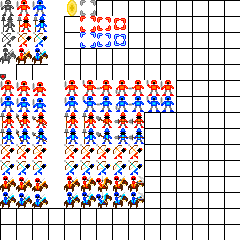
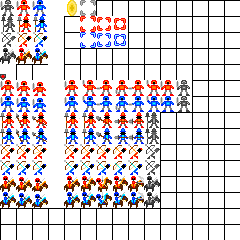
Added attack animations

Changed region(s): [[0.5833, 0.4667, 0.6708, 0.875], [0.7292, 0.3208, 0.7875, 0.4667], [0.0, 0.2042, 0.0583, 0.2625]]

diff --git a/Senior Project/src/wzh/game/entity/unit/Horseman.java b/Senior Project/src/wzh/game/entity/unit/Horseman.java
@@ -20,13 +20,15 @@ public class Horseman extends Unit {
 				colored = ss.getSubImage(2, 3);
 				standingAnimation=new Animation(ss,0,12,2,12,true,500,true);
 				standingAnimation.setPingPong(true);
-				attackAnimation=new Animation(ss,5,12,8,12,true,200,true);
+				attackAnimation=new Animation(ss,5,12,9,12,true,100,true);
+				attackAnimation.setLooping(false);
 			}
 			else{
 				colored = ss.getSubImage(1, 3);
 				standingAnimation=new Animation(ss,0,11,2,11,true,500,true);
 				standingAnimation.setPingPong(true);
-				attackAnimation=new Animation(ss,5,11,8,11,true,200,true);
+				attackAnimation=new Animation(ss,5,11,9,11,true,100,true);
+				attackAnimation.setLooping(false);
 			}
 			sprite = colored;
 			gray = ss.getSubImage(0, 3);
@@ -47,6 +49,7 @@ public class Horseman extends Unit {
 			super.attack(other);
 		}
 		else if(other instanceof Archer){
+			attacking=true;
 			allyAttModifier = 2;
 			other.setHp((int)(other.getHp() - getAttack()*allyAttModifier*(double)((10-other.getDefense()))/10));
 		}

diff --git a/Senior Project/src/wzh/game/entity/unit/Swordsman.java b/Senior Project/src/wzh/game/entity/unit/Swordsman.java
@@ -19,13 +19,15 @@ public class Swordsman extends Unit{
 				colored = ss.getSubImage(2, 0);
 				standingAnimation=new Animation(ss,0,6,2,6,true,500,true);
 				standingAnimation.setPingPong(true);
-				attackAnimation=new Animation(ss,5,6,10,6,true,200,true);
+				attackAnimation=new Animation(ss,5,6,11,6,true,100,true);
+				attackAnimation.setLooping(false);
 			}
 			else{
 				colored = ss.getSubImage(1, 0);
 				standingAnimation=new Animation(ss,0,5,2,5,true,500,true);
 				standingAnimation.setPingPong(true);
-				attackAnimation=new Animation(ss,5,5,10,5,true,200,true);
+				attackAnimation=new Animation(ss,5,5,11,5,true,100,true);
+				attackAnimation.setLooping(false);
 			}
 			sprite = colored;
 			gray = ss.getSubImage(0,0);
@@ -48,6 +50,7 @@ public class Swordsman extends Unit{
 			super.attack(other);
 		}
 		else if(other instanceof Archer){
+			attacking=true;
 			allyAttModifier = 1.5;
 			other.setHp((int)(other.getHp() - getAttack()*allyAttModifier*(double)((10-other.getDefense()))/10));
 		}

diff --git a/Senior Project/src/wzh/game/entity/unit/Spearman.java b/Senior Project/src/wzh/game/entity/unit/Spearman.java
@@ -19,13 +19,15 @@ public class Spearman extends Unit {
 				colored = ss.getSubImage(2, 1);
 				standingAnimation=new Animation(ss,0,8,2,8,true,500,true);
 				standingAnimation.setPingPong(true);
-				attackAnimation=new Animation(ss,5,8,8,8,true,200,true);
+				attackAnimation=new Animation(ss,5,8,9,8,true,150,true);
+				attackAnimation.setLooping(false);
 			}
 			else{
 				colored = ss.getSubImage(1, 1);
 				standingAnimation=new Animation(ss,0,7,2,7,true,500,true);
 				standingAnimation.setPingPong(true);
-				attackAnimation=new Animation(ss,5,7,8,7,true,200,true);
+				attackAnimation=new Animation(ss,5,7,9,7,true,150,true);
+				attackAnimation.setLooping(false);
 			}
 			sprite = colored;
 			gray = ss.getSubImage(0, 1);
@@ -46,6 +48,7 @@ public class Spearman extends Unit {
 			super.attack(other);
 		}
 		else if(other instanceof Archer){
+			attacking=true;
 			allyAttModifier = 1.25;
 			other.setHp((int)(other.getHp() - getAttack()*allyAttModifier*(double)((10-other.getDefense()))/10));
 		}

diff --git a/Senior Project/src/wzh/game/entity/unit/Archer.java b/Senior Project/src/wzh/game/entity/unit/Archer.java
@@ -23,13 +23,15 @@ public class Archer extends Unit {
 				colored = ss.getSubImage(2, 2);
 				standingAnimation=new Animation(ss,0,10,2,10,true,500,true);
 				standingAnimation.setPingPong(true);
-				attackAnimation=new Animation(ss,5,10,8,10,true,300,true);
+				attackAnimation=new Animation(ss,5,10,9,10,true,100,true);
+				attackAnimation.setLooping(false);
 			}
 			else{
 				colored = ss.getSubImage(1, 2);
 				standingAnimation=new Animation(ss,0,9,2,9,true,500,true);
 				standingAnimation.setPingPong(true);
-				attackAnimation=new Animation(ss,5,9,8,9,true,300,true);
+				attackAnimation=new Animation(ss,5,9,9,9,true,100,true);
+				attackAnimation.setLooping(false);
 			}
 			sprite = colored;
 			gray = ss.getSubImage(0, 2);
@@ -43,6 +45,7 @@ public class Archer extends Unit {
 			super.attack(other);
 		}
 		else{
+			attacking=true;
 			other.setHp((int)(other.getHp() - getAttack()*allyAttModifier*(double)((10-other.getDefense()))/10));
 			other.checkKill();
 		}
